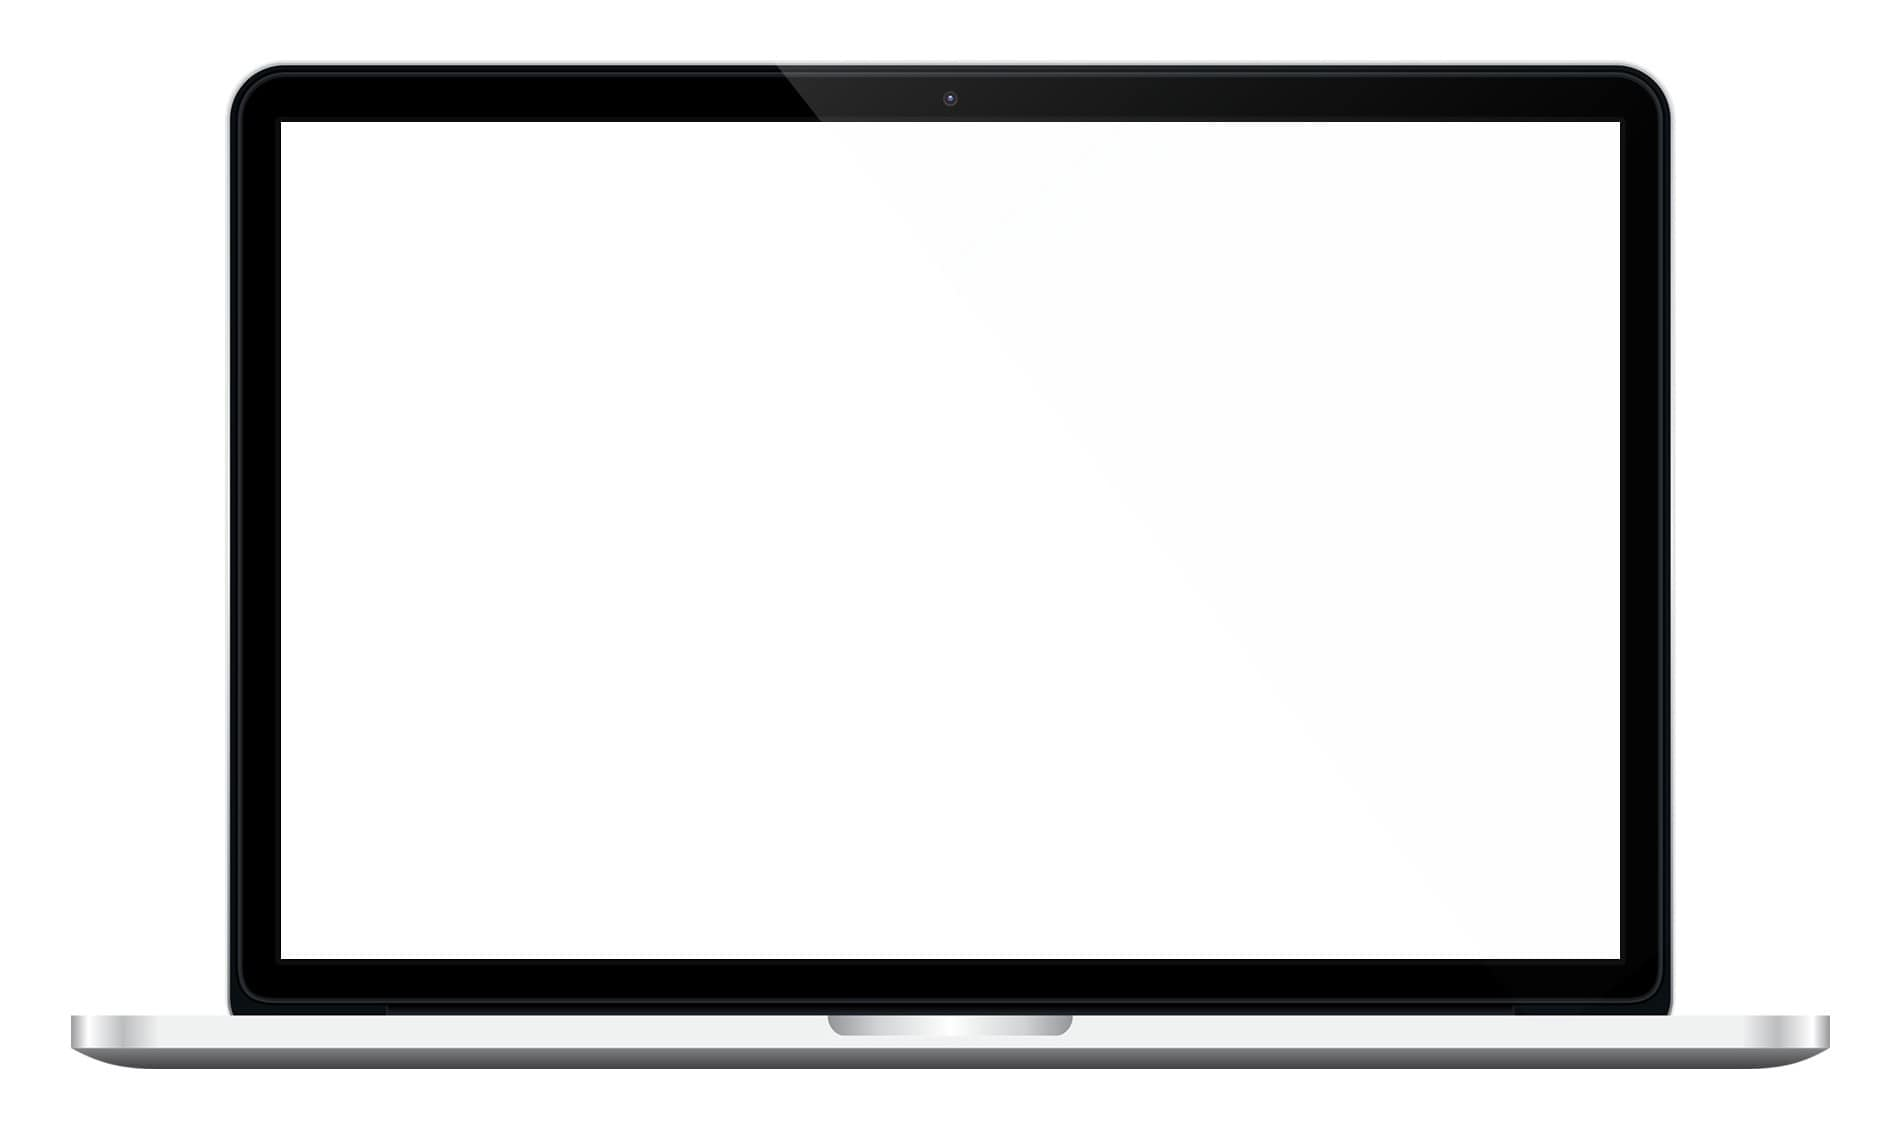
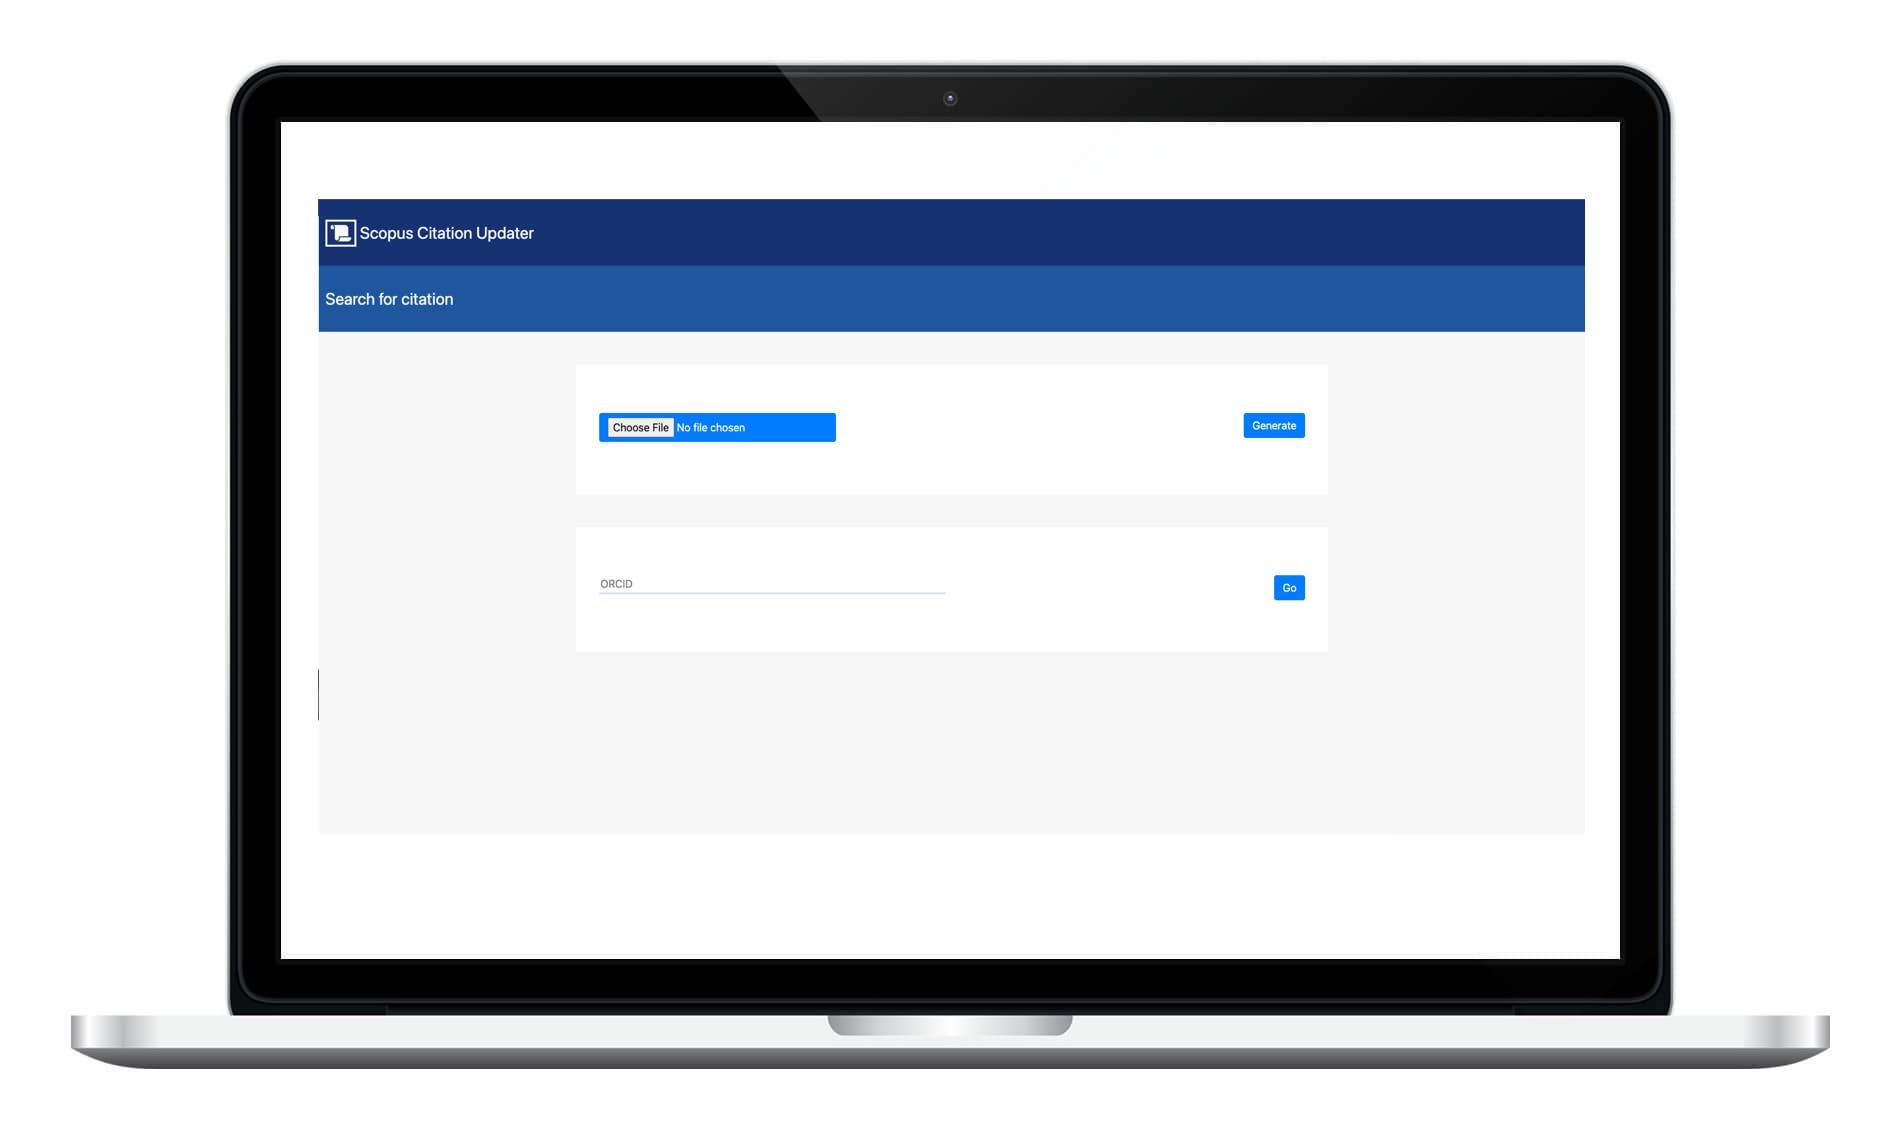
mockups

diff --git a/index.html b/index.html
@@ -321,7 +321,7 @@
           <div class="projects__row">
             <div class="projects__row-img-cont">
               <img
-                src="./assets/jpeg/project-mockup-example.jpeg"
+                src="./assets/jpeg/mockup-scopus.png"
                 alt="Software Screenshot"
                 class="projects__row-img"
                 loading="lazy"

diff --git a/project-4.html b/project-4.html
@@ -103,7 +103,7 @@
         <div class="project-details__content">
           <div class="project-details__showcase-img-cont">
             <img
-              src="./assets/png/scopusMockup.png"
+              src="./assets/jpeg/mockup-scopus.png"
               alt="Project Image"
               class="project-details__showcase-img"
             />
